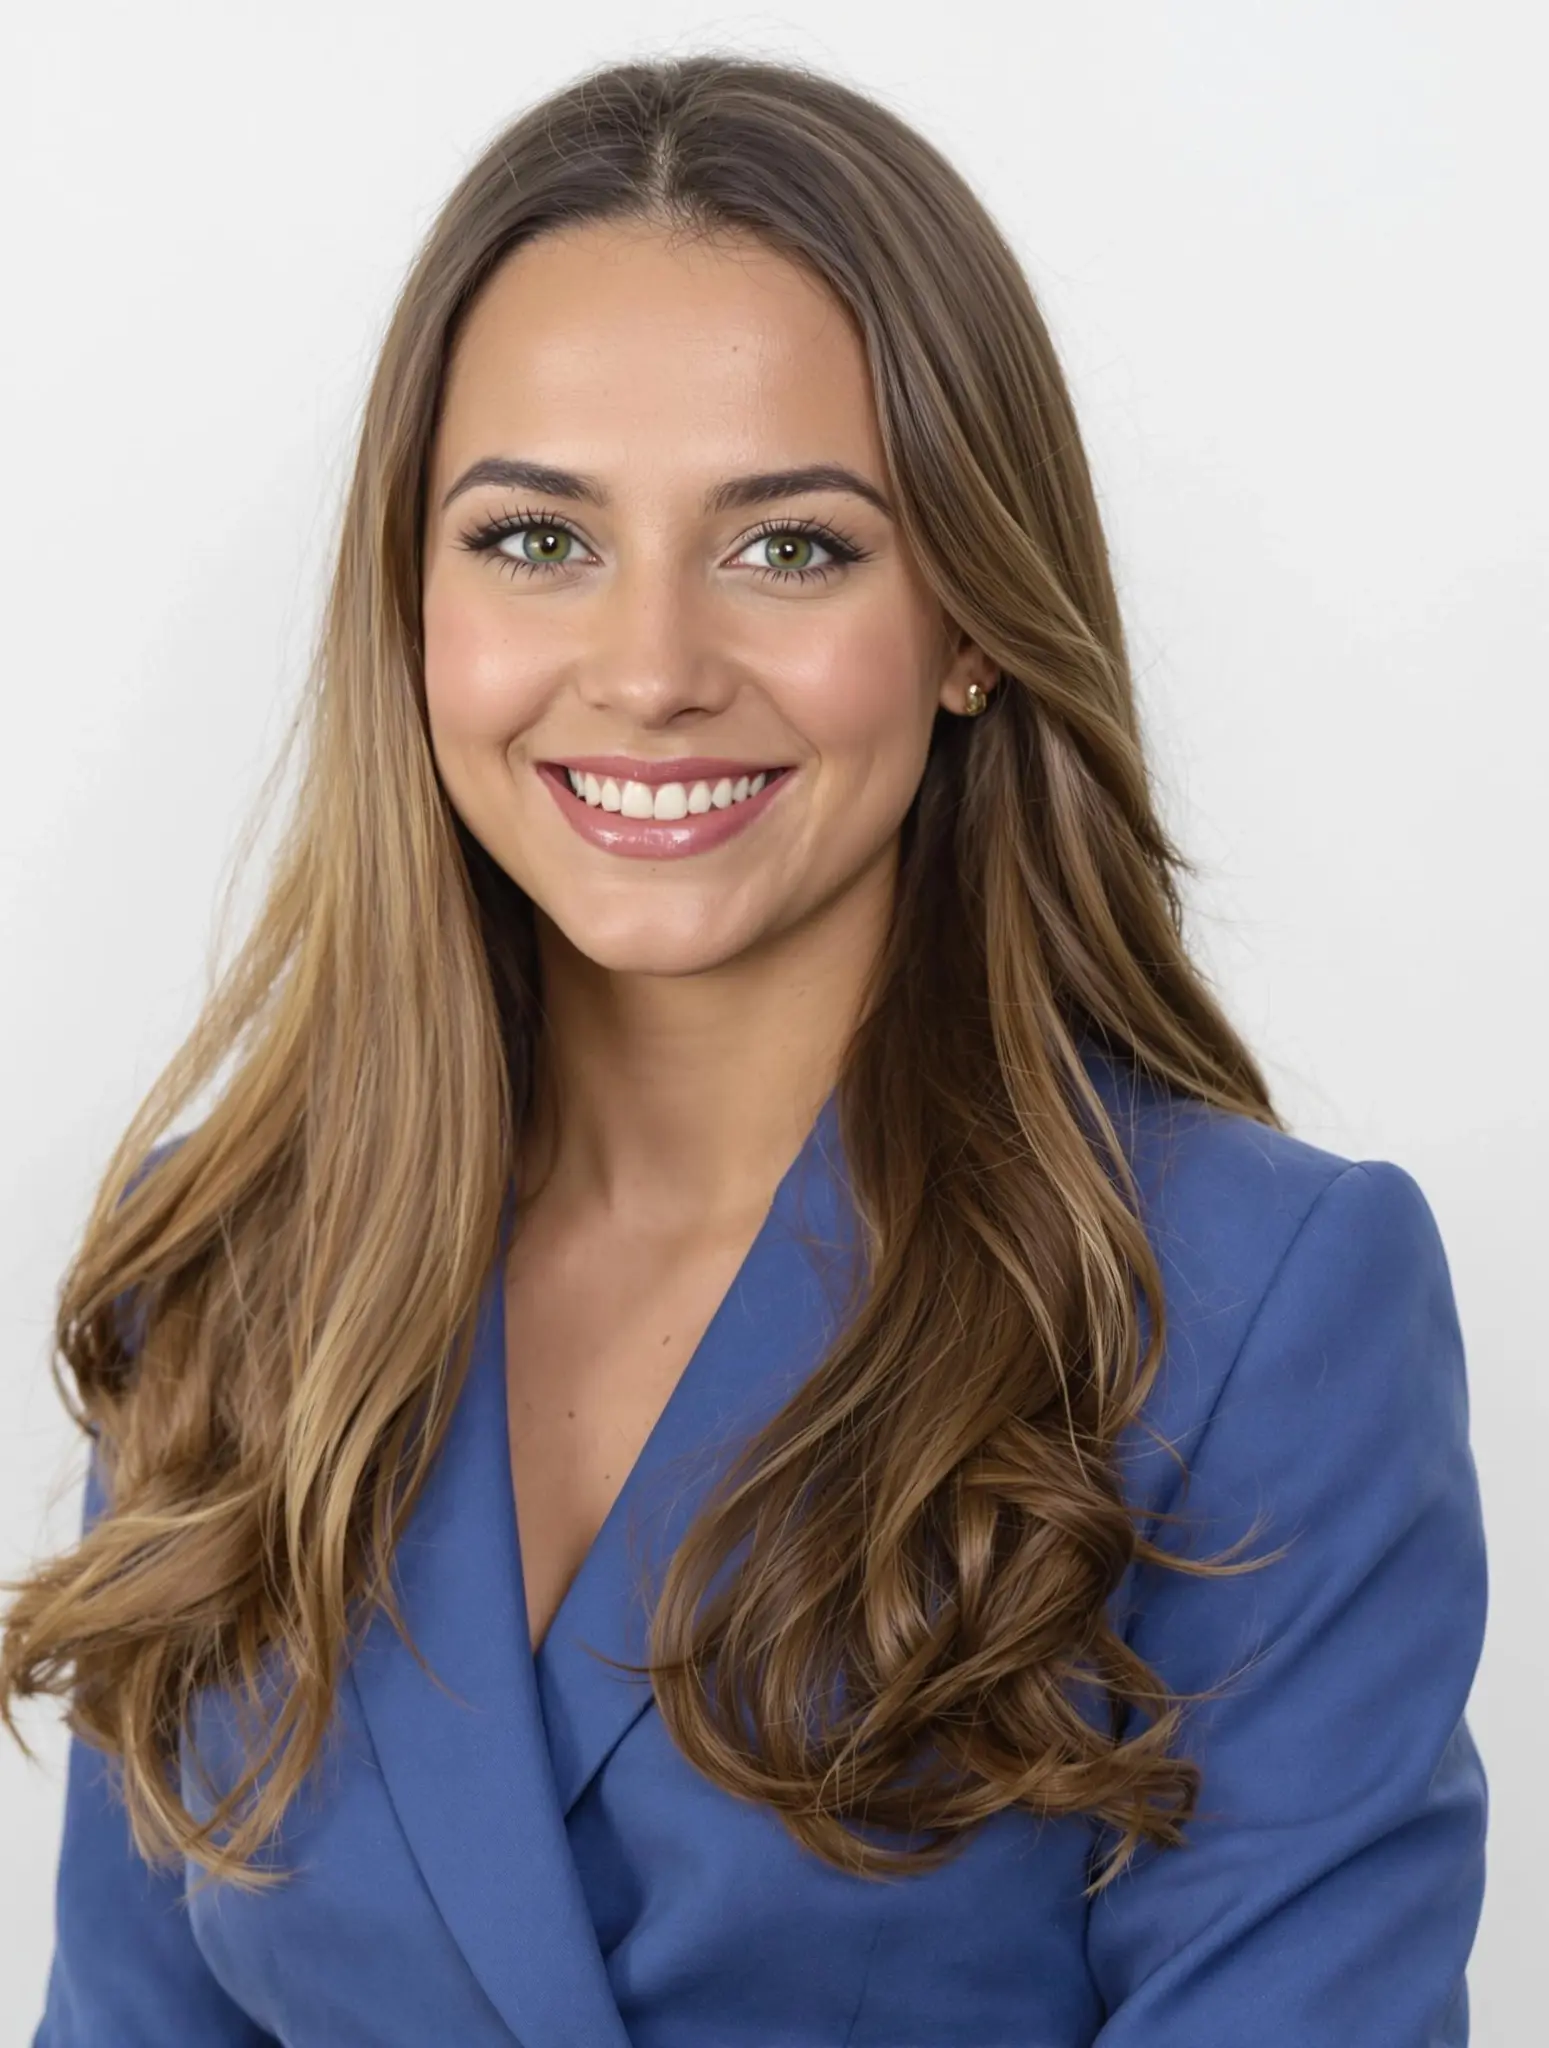
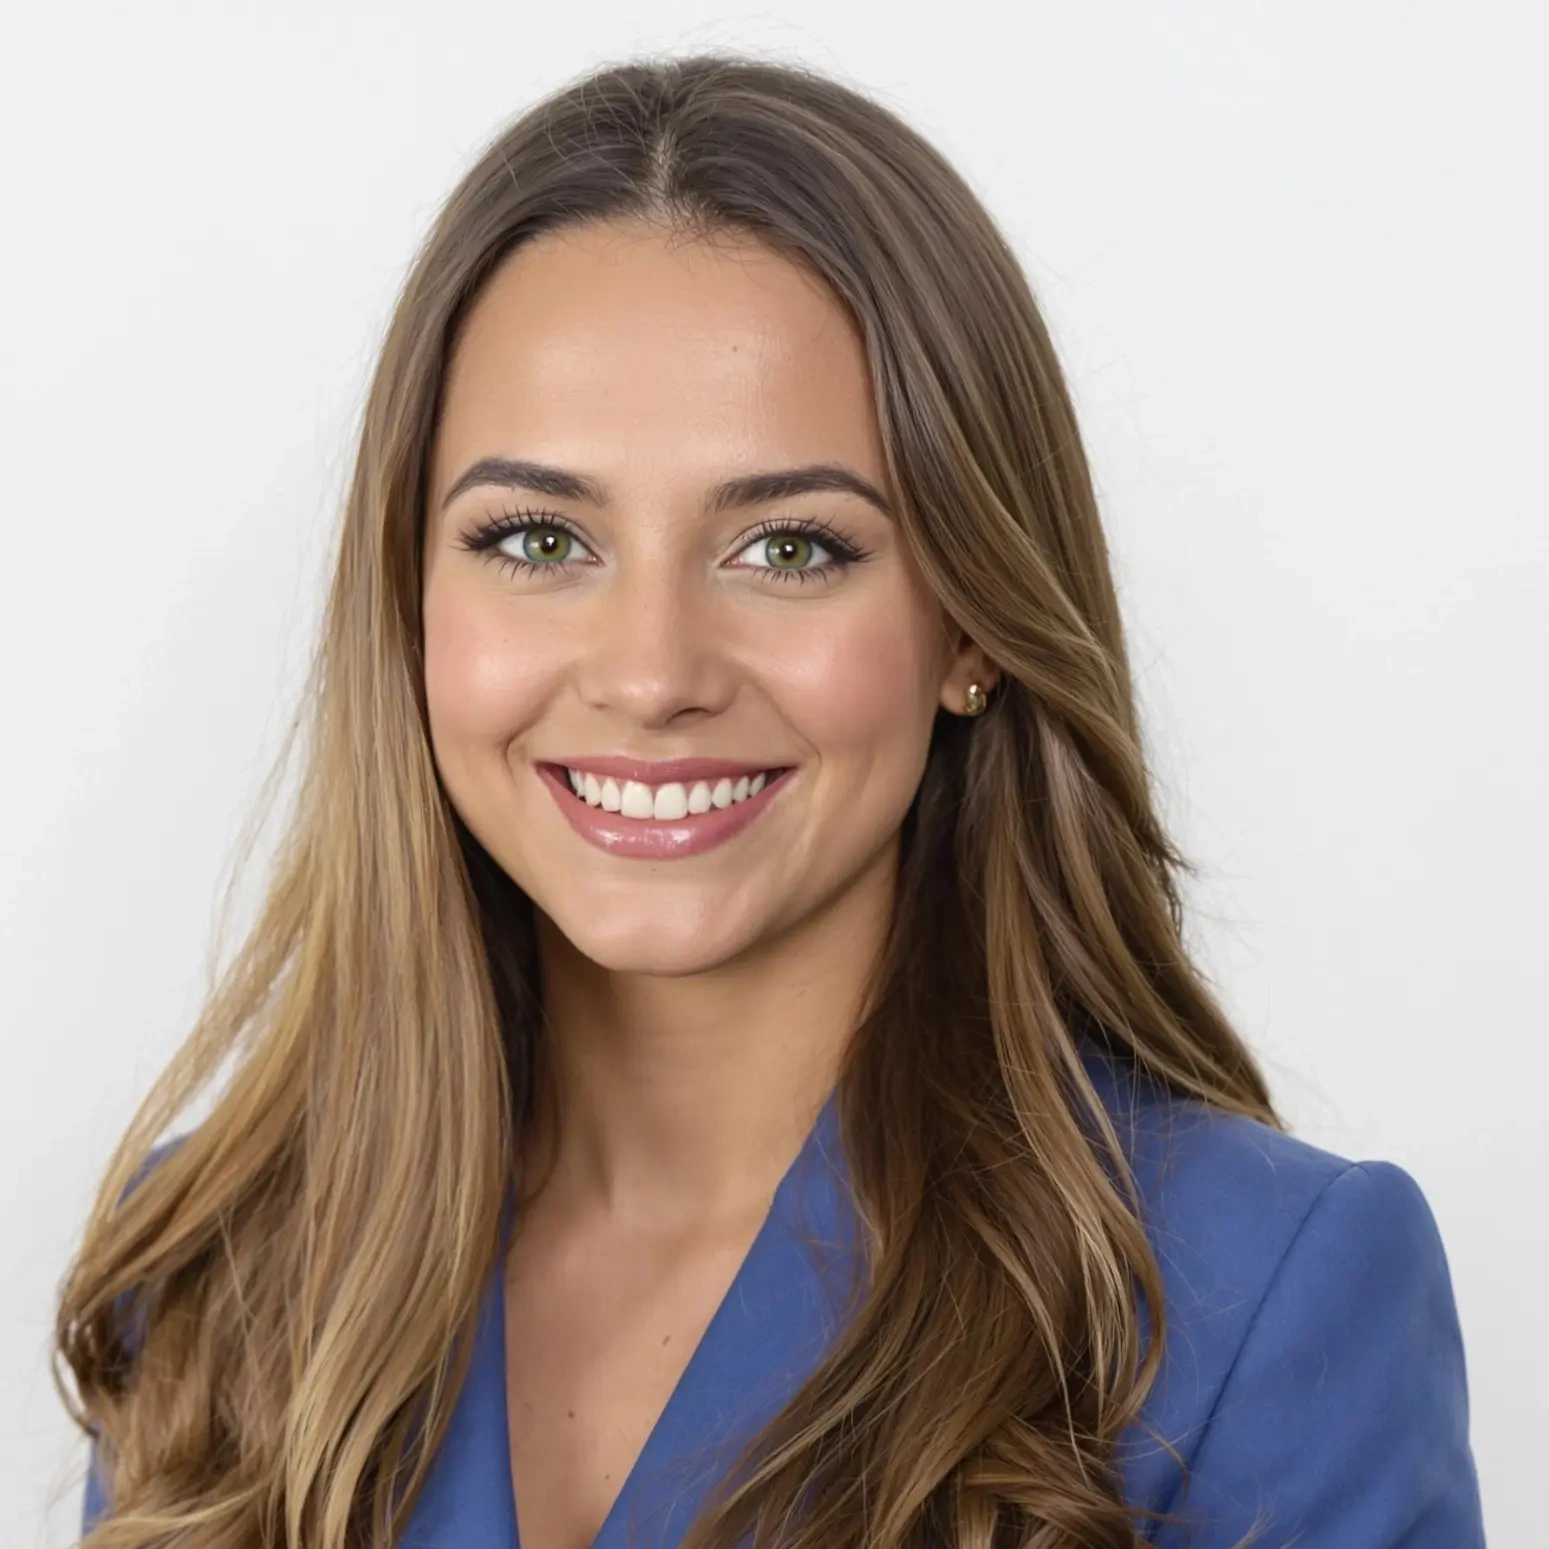
FIX: Crop LINA and Mathias from TOP to squares + object-position 20% for visible heads

diff --git a/index.html b/index.html
@@ -1383,7 +1383,7 @@
                         x-transition:leave-end="opacity-0 rotate-[60deg]"
                     >
                         <div class="w-20 h-20 rounded-full overflow-hidden">
-                            <img :src="item.img" :alt="item.name" class="w-full h-full object-cover">
+                            <img :src="item.img" :alt="item.name" class="w-full h-full object-cover" style="object-position: center 20%;">
                         </div>
                     </div>
                 </template>
